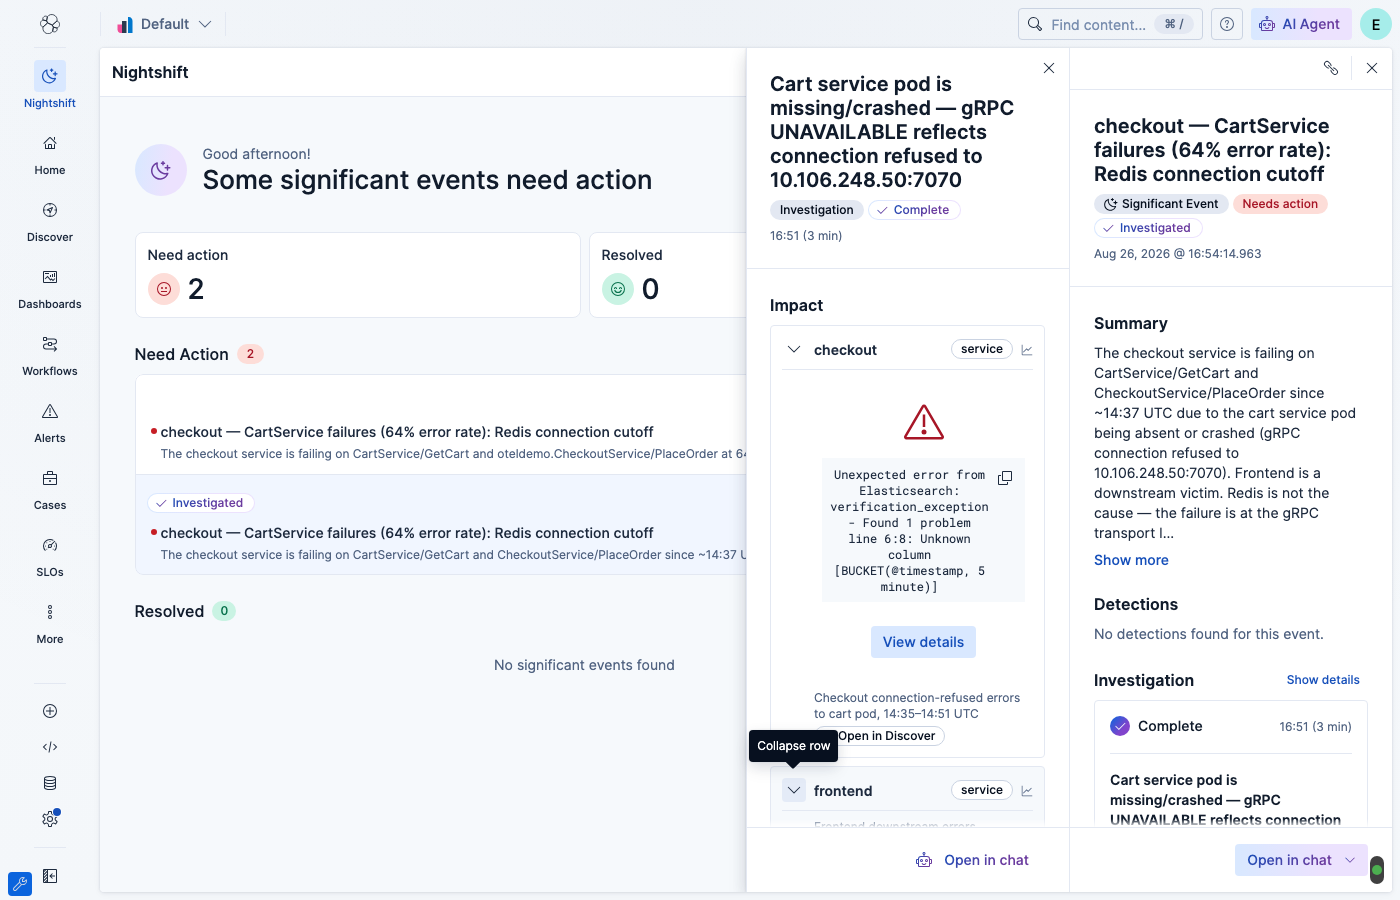
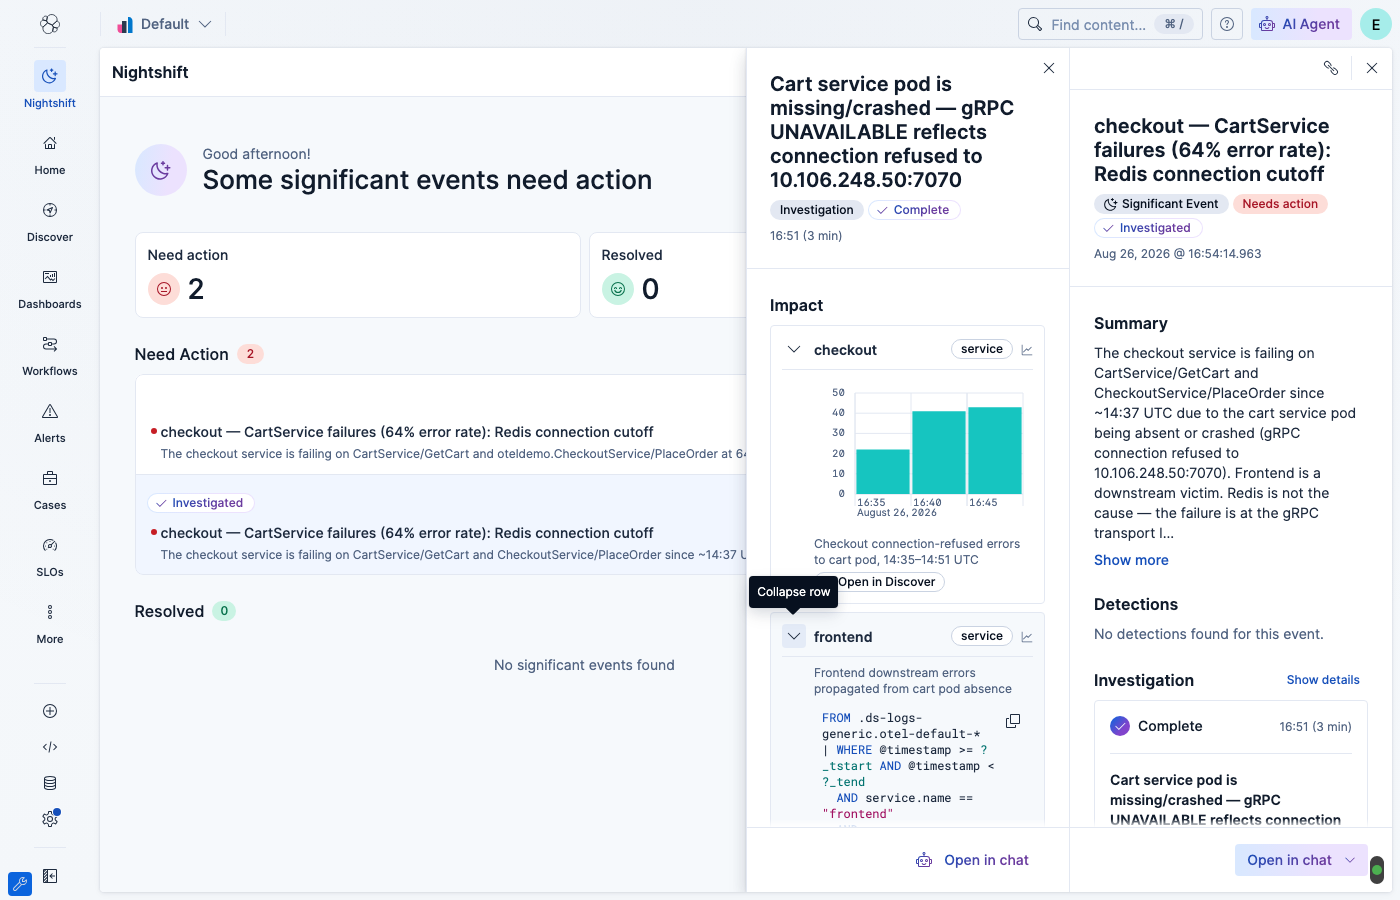
fix: strip SORT after injecting time_bucket alias in impact ES|QL chart
The SORT clause referenced the old unaliased column name, causing an
Elasticsearch verification_exception. Lens handles x-axis ordering
itself, so the SORT step is safe to drop.

Claude-Session: https://claude.ai/code/session_015DeD6b9PmN31T6tPrwUaP2

Changed region(s): [[0.5221, 0.4356, 0.7371, 0.9333]]

diff --git a/x-pack/solutions/observability/plugins/nightshift/public/investigation/investigation_flyout.tsx b/x-pack/solutions/observability/plugins/nightshift/public/investigation/investigation_flyout.tsx
@@ -285,12 +285,12 @@ function parseImpactEsqlForChart(esql: string): {
     return { timestampField: namedBucket[1], metricField, normalizedQuery: esql };
   }
 
-  // Case 2: unaliased BUCKET — inject alias so Lens can reference the column by name
+  // Case 2: unaliased BUCKET — inject alias and strip SORT (Lens handles x-axis ordering;
+  // the SORT clause would reference the old column name and fail after the alias is added)
   if (/\bBY\b[^|]*?\bBUCKET\s*\(\s*@timestamp/si.test(esql)) {
-    const normalizedQuery = esql.replace(
-      /(BUCKET\s*\(\s*@timestamp[^)]*\))/i,
-      'time_bucket = $1'
-    );
+    const normalizedQuery = esql
+      .replace(/(BUCKET\s*\(\s*@timestamp[^)]*\))/i, 'time_bucket = $1')
+      .replace(/\s*\|\s*SORT\b[^\n|]*/gi, '');
     return { timestampField: 'time_bucket', metricField, normalizedQuery };
   }
 
